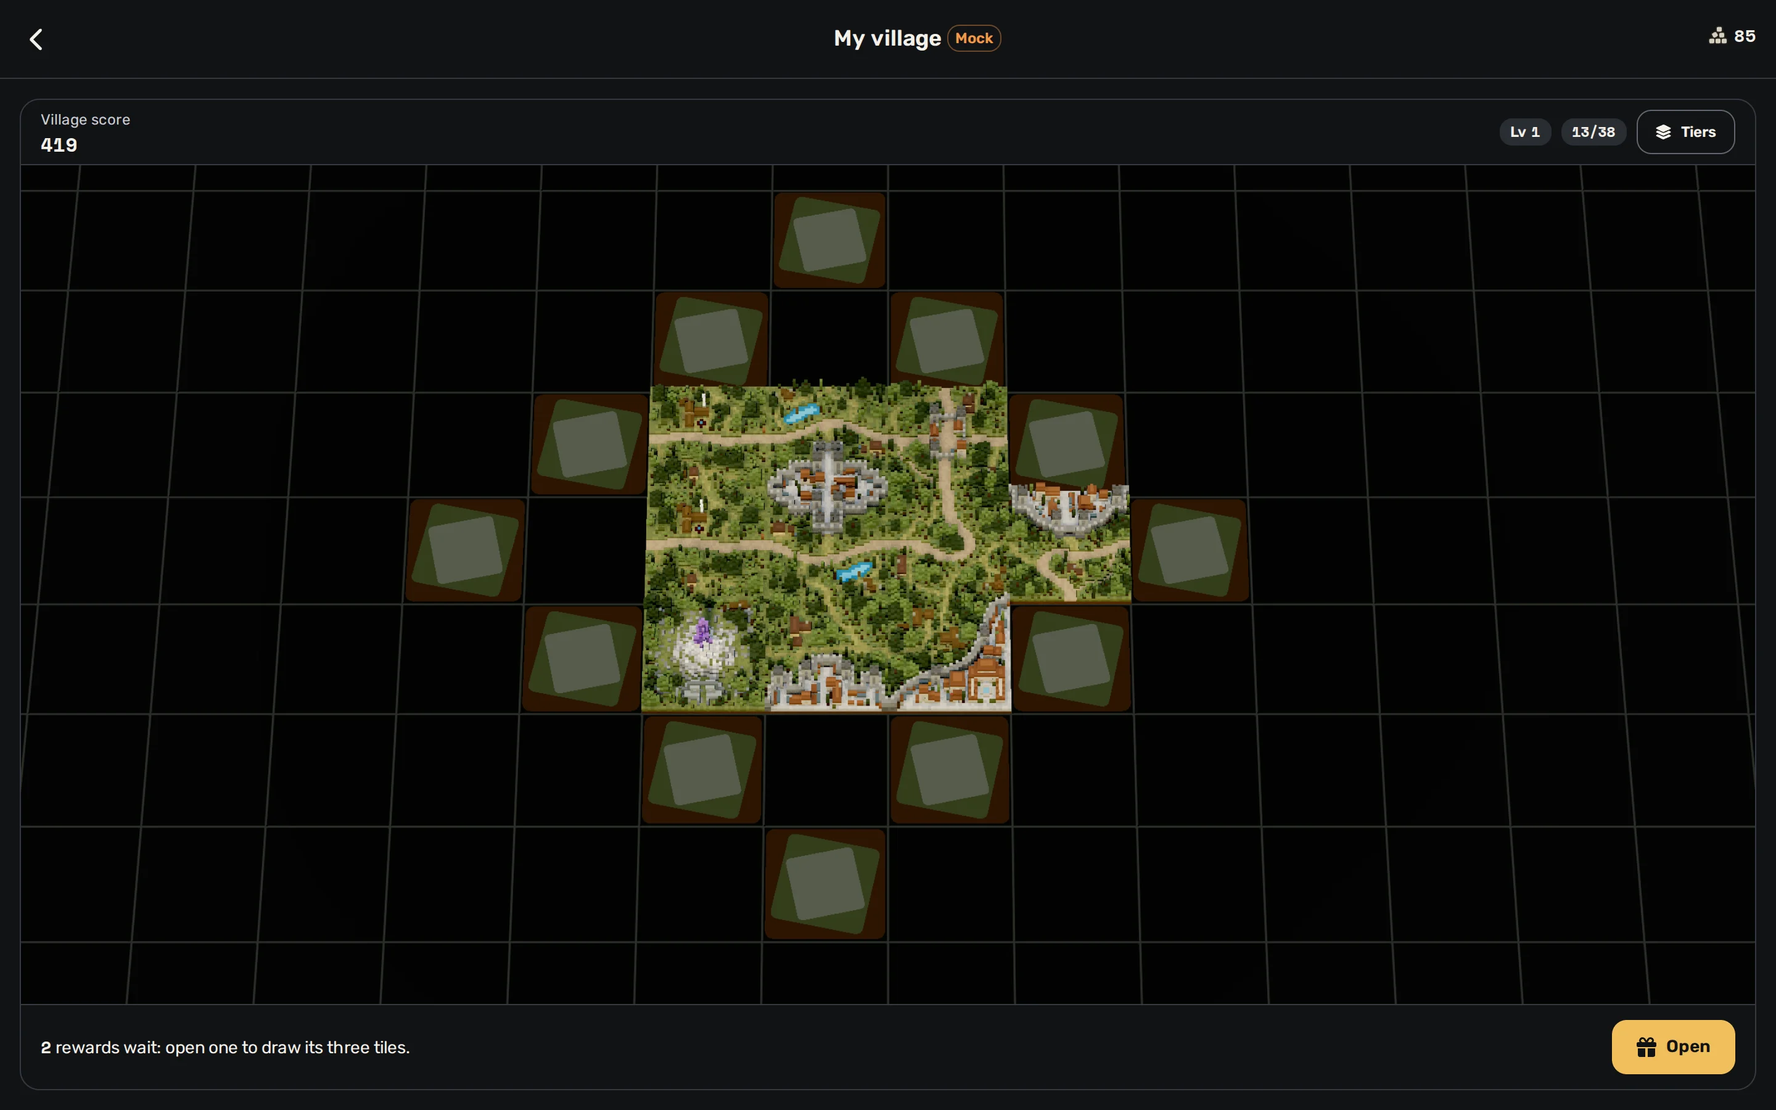
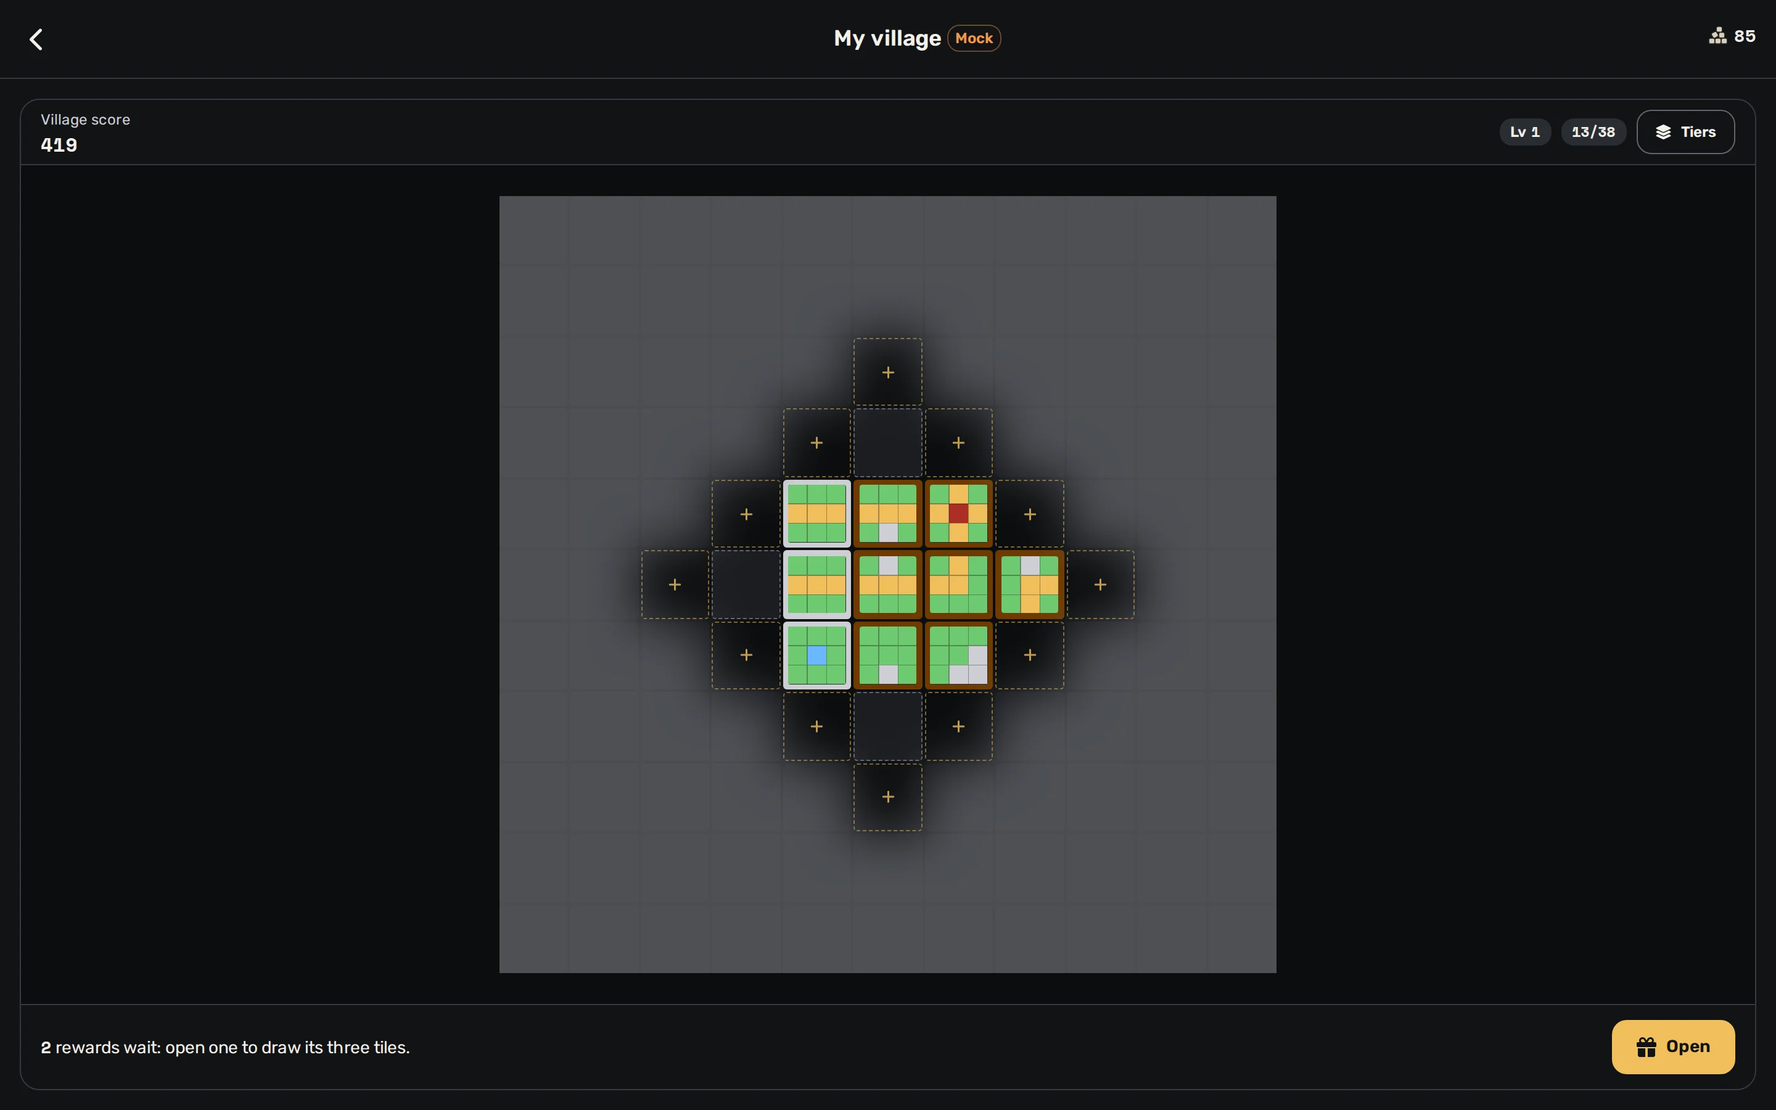
VILLAGE-SCREEN-2: tier bases on the board, reward and tier read failures (#646)
Review fixes:
- The page draws the plan board, each placed tile on its tier's base; the 3D
  village waits for the renderer to draw a tier's base (the stories keep it).
- A failed read of the reward shows its error and Retry in the reward's
  place, never as "no reward".
- The theme shop shows its skins once their tiers are read too: no Buy while
  the tiers are on their way or after their read failed; Retry reads them.
Captures of the board and the reward retaken on the plan.

diff --git a/packages/app/src/routes/pages/village.tsx b/packages/app/src/routes/pages/village.tsx
@@ -1,19 +1,12 @@
-import { useState } from "react";
 import { useParams, useSearchParams } from "react-router";
 import { useQueryClient } from "@tanstack/react-query";
 import { toast } from "sonner";
-import { provideManifest } from "@paved/renderer";
-import { hasWebGL } from "../../components/containers/tile-view";
-import { VillageViewport } from "../../components/containers/village-viewport";
-import type { VillageBoardProps } from "../../components/containers/village-board";
 import { shortAddress } from "../../components/elements/short-address";
 import { VillageScene, type VillageStatus } from "../../components/scenes/village-scene";
-import { useBoardSkins } from "../../data/board-skins";
 import { cobbleKeys, useCobbleAccount } from "../../data/cobbles";
 import { usePlayerStatus } from "../../data/indexer";
 import { addressKey } from "../../data/keys";
-import { RENDERER_ASSETS, manifestBody } from "../../data/renderer-manifest";
-import { useBoardSettings } from "../../data/settings";
+import { RENDERER_ASSETS } from "../../data/renderer-manifest";
 import { useDataSources } from "../../data/sources";
 import { useTileArt } from "../../data/tile-art";
 import { useVillage, useVillageReward, useVillageWrites, villageKeys } from "../../data/village";
@@ -21,9 +14,6 @@ import { useAccount } from "../../wallet/wallet";
 import { errorDetail } from "../error-detail";
 import { useAppNavigate, useBack } from "../ref";
 import NotFound from "./not-found";
-
-/** The renderer reads the manifest the route asked for with this code (`data/renderer-manifest.ts`), as the board does. */
-provideManifest(RENDERER_ASSETS, manifestBody(RENDERER_ASSETS));
 
 /** An address in a path: `0x` and 1 to 64 hex digits. */
 const ADDRESS = /^0x[0-9a-f]{1,64}$/i;
@@ -34,7 +24,8 @@ const ADDRESS = /^0x[0-9a-f]{1,64}$/i;
  * (`useVillage`), the reward from `Rewards` (`useVillageReward`), the Cobbles from the ledger. The own village writes through
  * the signer (`useVillageWrites`): Found, Buy a parcel at the price the sheet showed, Open a reward, then place one of its
  * tiles, add it as a copy, or take the Cobbles; each write shows its wait, its refusal and a toast on its receipt. The board is
- * the 3D village with the fog of war (`VillageViewport`), or the plan without WebGL.
+ * the plan (`VillageBoard`): each placed tile on its tier's base, the fog over the cells beyond the parcels. The 3D village
+ * (`VillageViewport`, #648) waits for the renderer to draw a tier's base under a tile.
  */
 export default function Page() {
   const { player } = useParams();
@@ -59,21 +50,18 @@ function Village({ player }: { player: string | null }) {
   const reward = useVillageReward(own ? playerId : null);
   const account = useCobbleAccount(own ? playerId : null);
   const writes = useVillageWrites(own ? playerId : null);
-  const skins = useBoardSkins(playerId);
-  const settings = useBoardSettings();
-  // The 3D village, unless this browser has no WebGL or the renderer cannot start: the plan, which does the same.
-  const [view, setView] = useState<"3d" | "plan">(() => (hasWebGL() ? "3d" : "plan"));
   const tileArt = useTileArt(RENDERER_ASSETS);
 
-  const error = read.error ?? reward.error ?? null;
   const status: VillageStatus | null =
     own && me === null
       ? { kind: "guest" }
       : read.data === undefined
-        ? error
-          ? { kind: "error", message: error.message, detail: errorDetail(error) }
+        ? read.error
+          ? { kind: "error", message: read.error.message, detail: errorDetail(read.error) }
           : { kind: "loading" }
         : null;
+  // The reward's own failed read: the village shows, the reward's place says what happened (Retry reads both again).
+  const rewardError = reward.error ? { message: reward.error.message, detail: errorDetail(reward.error) } : null;
   const data = read.data;
   const busy = writes.pending !== undefined;
 
@@ -87,9 +75,6 @@ function Village({ player }: { player: string | null }) {
     );
   };
 
-  const renderBoard =
-    view === "3d" ? (board: VillageBoardProps) => <VillageViewport {...board} settings={settings.renderer} basePath={RENDERER_ASSETS} skins={skins} onError={() => setView("plan")} /> : undefined;
-
   return (
     <VillageScene
       village={status ? undefined : (data?.village ?? null)}
@@ -102,10 +87,10 @@ function Village({ player }: { player: string | null }) {
       parcel={data?.parcel ?? null}
       cobbles={account.data?.cobbles ?? 0}
       busy={busy}
+      rewardError={rewardError}
       refusal={writes.error?.message ?? null}
       refusalDetail={writes.error ? errorDetail(writes.error) : undefined}
       tileArt={tileArt}
-      renderBoard={renderBoard}
       onBack={onBack}
       onConnect={() => void wallet.connect()}
       onRetry={() => {

diff --git a/packages/app/src/components/scenes/village-scene.tsx b/packages/app/src/components/scenes/village-scene.tsx
@@ -48,6 +48,8 @@ export interface VillageSceneProps {
   founded?: boolean;
   /** Rewards waiting to be opened (own village, no offer open): Open draws the next one's tiles. */
   pending?: number;
+  /** The reward's read failed (own village): what happened, and Retry, in place of the reward. */
+  rewardError?: { message: string; detail?: ErrorDetail } | null;
   /** The last write's refusal, until dismissed. */
   refusal?: string | null;
   refusalDetail?: ErrorDetail;
@@ -114,7 +116,7 @@ const DRAG_SLOP = 6;
  * `Village` and `Rewards`, #646 PR 2): a village not founded shows its start and Found; rewards waiting show Open.
  */
 export function VillageScene({ village, status, mode = "own", onBack, onConnect, onRetry, ...props }: VillageSceneProps) {
-  if (village) return <VillageView village={village} mode={mode} onBack={onBack} {...props} />;
+  if (village) return <VillageView village={village} mode={mode} onBack={onBack} onRetry={onRetry} {...props} />;
   const own = mode === "own";
   return (
     <div className="flex h-dvh flex-col overflow-hidden bg-background">
@@ -155,6 +157,7 @@ function VillageView({
   pending = 0,
   refusal = null,
   refusalDetail,
+  rewardError = null,
   cobbles = 0,
   reward = null,
   parcel = null,
@@ -169,13 +172,14 @@ function VillageView({
   onFound,
   onOpenReward,
   onDismissRefusal,
+  onRetry,
   onPlace,
   onAddCopy,
   onTakeCobbles,
   onBuyParcel,
   onGetCobbles,
   onOpenSkins,
-}: Omit<VillageSceneProps, "village" | "status" | "onConnect" | "onRetry"> & { village: Village }) {
+}: Omit<VillageSceneProps, "village" | "status" | "onConnect"> & { village: Village }) {
   const own = mode === "own";
   const [selected, setSelected] = useState<number | null>(initialSelected);
   const [orientation, setOrientation] = useState(1);
@@ -193,7 +197,8 @@ function VillageView({
     setOrientation(1);
   }, [reward, initialSelected]);
 
-  const offer = own && founded ? reward : null;
+  // A reward that could not be read is not offered: its error shows instead, with Retry.
+  const offer = own && founded && !rewardError ? reward : null;
   const cap = cellCap(village);
   // A parcel bought joins the village: its sheet closes.
   const openParcel = chosenParcel && !village.cells.some((c) => c.x === chosenParcel.x && c.y === chosenParcel.y) ? chosenParcel : null;
@@ -351,7 +356,23 @@ function VillageView({
               </Button>
             </div>
           )}
-          {own && founded && !offer && pending > 0 && (
+          {own && founded && rewardError && (
+            <div className="border-t border-border px-4 py-2">
+              <InlineError
+                title="Your rewards could not be read"
+                message={rewardError.message}
+                detail={rewardError.detail}
+                action={
+                  onRetry && (
+                    <Button size="sm" variant="outline" onClick={onRetry}>
+                      Retry
+                    </Button>
+                  )
+                }
+              />
+            </div>
+          )}
+          {own && founded && !rewardError && !offer && pending > 0 && (
             <div className="flex items-center justify-between gap-3 border-t border-border px-4 py-3">
               <p className="text-sm">
                 <span className="numeric font-semibold">{pending}</span> {pending === 1 ? "reward waits" : "rewards wait"}: open one to draw its three tiles.
@@ -361,7 +382,7 @@ function VillageView({
               </Button>
             </div>
           )}
-          {own && founded && !offer && pending === 0 && (
+          {own && founded && !rewardError && !offer && pending === 0 && (
             <p className="border-t border-border px-4 py-2 text-center text-xs text-muted-foreground">
               {parcel ? "Tap a plus to buy the parcel next to your village." : "Your village is full."}
             </p>

diff --git a/packages/app/scripts/village-captures.ts b/packages/app/scripts/village-captures.ts
@@ -4,9 +4,9 @@
  * request.
  *
  *   bun run storybook                 (in another shell, or pass --url to a Storybook already up)
- *   node scripts/village-captures.ts --out <folder> [--url http://localhost:6006] [--gpu]
+ *   node scripts/village-captures.ts --out <folder> [--url http://localhost:6006]
  *
- * Without `--gpu` it runs headless on SwiftShader (software WebGL). Each capture is written as WebP (the browser encodes it, at
+ * The page draws the plan (each tile on its tier's base), so no WebGL is needed. Each capture is written as WebP (the browser encodes it, at
  * 0.85), as `src/stories/captures/village/`'s are. Node 24 runs it as is (type stripping).
  */
 import { mkdirSync, writeFileSync } from "node:fs";
@@ -19,7 +19,6 @@ const arg = (name: string, fallback: string): string => {
 };
 const URL_BASE = arg("url", "http://localhost:6006");
 const OUT = arg("out", "");
-const GPU = process.argv.includes("--gpu");
 const ONLY = arg("only", "");
 if (!OUT) throw new Error("--out <folder> is required");
 
@@ -27,11 +26,10 @@ const SIZES = [
   { width: 375, height: 812 },
   { width: 1440, height: 900 },
 ];
-const CAPTURES: { name: string; story: string; webgl?: boolean }[] = [
+const CAPTURES = [
   { name: "page-board", story: "pages-village--board" },
   { name: "page-reward", story: "pages-village--reward" },
-  // The visit in the plan, the page's board without WebGL: the 3D one of 29 cells does not settle on SwiftShader under load.
-  { name: "page-visit", story: "pages-village--visit", webgl: false },
+  { name: "page-visit", story: "pages-village--visit" },
 ];
 
 /** A PNG encoded as WebP by the browser (a blank page's canvas). */
@@ -52,18 +50,16 @@ async function toWebp(png: Buffer): Promise<Buffer> {
 }
 
 mkdirSync(OUT, { recursive: true });
-const browser = await chromium.launch({ args: GPU ? ["--enable-gpu", "--use-angle=default", "--ignore-gpu-blocklist"] : ["--use-angle=swiftshader", "--enable-unsafe-swiftshader"] });
-/** A browser without WebGL, for the captures of the plan view. */
-const plain = await chromium.launch({ args: ["--disable-webgl", "--disable-3d-apis"] });
+const browser = await chromium.launch();
 try {
   for (const capture of CAPTURES.filter((c) => !ONLY || c.name.includes(ONLY))) {
     for (const size of SIZES) {
-      const page = await (capture.webgl === false ? plain : browser).newPage({ viewport: size, deviceScaleFactor: 2 });
+      const page = await browser.newPage({ viewport: size, deviceScaleFactor: 2 });
       await page.goto(`${URL_BASE}/iframe.html?id=${capture.story}&viewMode=story`, { waitUntil: "load" });
       // The page read the ledger (the first visit waits for Storybook's compile): its score is shown.
       await page.waitForSelector("#storybook-root :text('Village score')", { timeout: 90_000 });
-      // The 3D board loads its models and settles (its ambient effects keep the network busy: no idle to wait for).
-      await page.waitForTimeout(10_000);
+      // The tiles' art loads (Storybook's own socket keeps the network busy: no idle to wait for).
+      await page.waitForTimeout(4_000);
       const png = await page.screenshot({ fullPage: false, timeout: 180_000 });
       await page.close();
       const file = join(OUT, `${capture.name}-${size.width}.webp`);
@@ -73,5 +69,4 @@ try {
   }
 } finally {
   await browser.close();
-  await plain.close();
 }

diff --git a/packages/app/src/routes/pages/theme-shop.tsx b/packages/app/src/routes/pages/theme-shop.tsx
@@ -9,7 +9,7 @@ import { RENDERER_ASSETS } from "../../data/renderer-manifest";
 import { skinKeys, useSkinWrites, useThemeSkins } from "../../data/skins";
 import { useDataSources } from "../../data/sources";
 import { useThemeVariants, useTileRenders } from "../../data/tile-renders";
-import { useSkinTierGates } from "../../data/village";
+import { useSkinTierGates, villageKeys } from "../../data/village";
 import { useAccount } from "../../wallet/wallet";
 import { useAppNavigate, useBack, useTabNavigate } from "../ref";
 import NotFound from "./not-found";
@@ -40,6 +40,9 @@ function Shop({ theme, available }: { theme: SkinThemeId; available: boolean }) 
   const read = useThemeSkins(playerId, available ? code : null);
   // The skins reserved to a tier of their plan (#642): Buy waits for the tier. None on a network without Rewards.
   const gates = useSkinTierGates(playerId, available ? code : null);
+  // The skins shown once their tiers are read too: no Buy before the tiers say which skins wait for one, nor after their read failed.
+  const tiersIn = gates.data !== undefined && !gates.error;
+  const status = skinsStatus(playerId, { data: tiersIn ? read.data : undefined, error: read.error ?? gates.error });
   const writes = useSkinWrites(playerId);
   const client = useQueryClient();
   const renders = useTileRenders(RENDERER_ASSETS);
@@ -66,8 +69,8 @@ function Shop({ theme, available }: { theme: SkinThemeId; available: boolean }) 
       renders={renders}
       variants={variants}
       tierGates={gates.data ?? undefined}
-      skins={read.data}
-      skinsStatus={available ? skinsStatus(playerId, read) : null}
+      skins={tiersIn ? read.data : undefined}
+      skinsStatus={available ? status : null}
       buying={writes.buying}
       refusal={writes.error?.message ?? null}
       refusalDetail={writes.error ? errorDetail(writes.error) : undefined}
@@ -78,6 +81,7 @@ function Shop({ theme, available }: { theme: SkinThemeId; available: boolean }) 
       onConnect={() => go("/welcome")}
       onRetry={() => {
         void client.invalidateQueries({ queryKey: skinKeys.all });
+        void client.invalidateQueries({ queryKey: villageKeys.all });
         void client.invalidateQueries({ queryKey: cobbleKeys.all });
       }}
       onBack={onBack}

diff --git a/packages/app/__tests__/theme-route.test.tsx b/packages/app/__tests__/theme-route.test.tsx
@@ -137,6 +137,26 @@ describe("/settings/theme/forest: the shop", () => {
   const cell = (plan: number) => screen.findByRole("listitem", { name: `Tile ${plan}` }, { timeout: slow(5000) });
   const buyButton = async (plan: number) => within(await cell(plan)).getByRole("button", { name: `Buy Tile ${plan} for ${FOREST_PRICES[plan - 1]} Cobbles` });
 
+  it("a skin reserved to a tier waits for it; a failed read of the tiers shows no Buy until Retry reads them (#646)", async () => {
+    const s = setup();
+    s.views.skinTierTable.set(`${FOREST}:10`, 1);
+    s.views.skinTierTable.set(`${FOREST}:11`, 1);
+    s.views.villagePlayer(PLAYER_ID).copies[10] = 2;
+    const tiers = s.views.skinTiers.bind(s.views);
+    let fail = true;
+    s.views.skinTiers = (theme: number) => (fail ? Promise.reject(new Error("tiers down")) : tiers(theme));
+    open(s, "/settings/theme/forest");
+    expect(await screen.findByText("tiers down", {}, { timeout: slow(5000) })).toBeInTheDocument();
+    expect(screen.queryByRole("button", { name: /^Buy Tile/ })).toBeNull();
+    fail = false;
+    await userEvent.click(screen.getByRole("button", { name: "Retry" }));
+    // Plan 10 waits for Silver (no copy yet); plan 11 reached it (2 copies); plan 12 has no tier.
+    expect(await buyButton(10)).toBeDisabled();
+    expect(within(await cell(10)).getByLabelText("Reserved to Silver tier")).toBeInTheDocument();
+    expect(await buyButton(11)).toBeEnabled();
+    expect(await buyButton(12)).toBeEnabled();
+  });
+
   it("shows each tile's price, owned and active state", async () => {
     open(setup(), "/settings/theme/forest");
     expect(await screen.findByRole("heading", { level: 1, name: "Forest" }, { timeout: slow(5000) })).toBeInTheDocument();

diff --git a/packages/app/__tests__/village-route.test.tsx b/packages/app/__tests__/village-route.test.tsx
@@ -133,6 +133,32 @@ describe("/village: the own village", () => {
     await waitFor(() => expect(screen.queryByText(/Your level is too low/)).toBeNull());
   });
 
+  it("a failed read of the reward says so with Retry, never as no reward; Retry shows the rewards waiting", async () => {
+    const c = chain(50, 2);
+    await c.writer.foundVillage();
+    const grants = c.views.rewardGrants.bind(c.views);
+    let fail = true;
+    c.views.rewardGrants = (player: string) => (fail ? Promise.reject(new Error("rewards down")) : grants(player));
+    open(c, "/village");
+    expect(await screen.findByText("Your rewards could not be read", {}, { timeout: 5000 })).toBeInTheDocument();
+    expect(screen.getByText("rewards down")).toBeInTheDocument();
+    expect(screen.queryByText(/Tap a plus/)).toBeNull();
+    fail = false;
+    await userEvent.click(screen.getByRole("button", { name: "Retry" }));
+    expect(await screen.findByText(waiting(2), {}, { timeout: 5000 })).toBeInTheDocument();
+    expect(screen.queryByText("Your rewards could not be read")).toBeNull();
+  });
+
+  it("draws each placed tile on its tier's base", async () => {
+    const c = chain(50, 0);
+    await c.writer.foundVillage();
+    c.views.villagePlayer(PLAYER_ID).copies[8] = 4;
+    open(c, "/village");
+    // The starter is plan 9: 4 copies of it, Gold (tier 2), its base drawn under it on the board.
+    const board = await screen.findByLabelText(/^Village of 9 cells and 1 tiles$/, {}, { timeout: 5000 });
+    await waitFor(() => expect(board.querySelector('[data-tier="2"]')).not.toBeNull());
+  });
+
   it("a guest is asked to connect", async () => {
     const c = chain();
     open(c, "/village", { guest: true });

diff --git a/packages/app/__tests__/village.test.tsx b/packages/app/__tests__/village.test.tsx
@@ -206,6 +206,13 @@ describe("Scenes/Village", () => {
     await userEvent.click(screen.getByRole("button", { name: "Dismiss" }));
     expect(onDismissRefusal).toHaveBeenCalledTimes(1);
     unmount();
+    const onRetry = vi.fn();
+    const { unmount: failed } = render(wrap(<VillageScene {...VILLAGE.rewardFailed} onRetry={onRetry} />));
+    expect(screen.getByText("Your rewards could not be read")).toBeInTheDocument();
+    expect(screen.queryByRole("button", { name: /Open/ })).toBeNull();
+    await userEvent.click(screen.getByRole("button", { name: "Retry" }));
+    expect(onRetry).toHaveBeenCalledTimes(1);
+    failed();
     const { unmount: guest } = render(wrap(<VillageScene {...VILLAGE.guest} />));
     expect(screen.getByText("Connect to build your village")).toBeInTheDocument();
     guest();

diff --git a/packages/app/src/mocks/village.ts b/packages/app/src/mocks/village.ts
@@ -161,6 +161,7 @@ export const VILLAGE = {
   unfounded: { village: VILLAGE_UNFOUNDED, founded: false },
   waiting: { village: VILLAGE_START, cobbles: 120, parcel: parcelFor(9), pending: 3 },
   refused: { village: VILLAGE_START, cobbles: 5, parcel: parcelFor(9), refusal: "Your level is too low for this parcel: play games to level up. No Cobbles were spent." },
+  rewardFailed: { village: VILLAGE_START, cobbles: 120, parcel: parcelFor(9), pending: 2, rewardError: { message: "Rewards: the node did not answer" } },
   loading: { status: { kind: "loading" } },
   guest: { status: { kind: "guest" } },
   unavailable: { village: null },

diff --git a/packages/app/src/routes/page-loaders.ts b/packages/app/src/routes/page-loaders.ts
@@ -28,7 +28,7 @@ export const PAGE_LOADERS: Record<string, PageLoader> = {
   cobbles: () => import("./pages/cobbles"),
   // The avatar creator (#626 PR 2), its own chunk; its 3D preview and stills are the renderer's avatar chunk, loaded by the page.
   avatar: () => import("./pages/avatar"),
-  // The village (#646 PR 2), its own chunk, the own and a visit; its 3D board asks for the renderer's manifest as the board does.
+  // The village (#646 PR 2), its own chunk, the own and a visit; its tile art reads the renderer's manifest, asked for with the code.
   village: village,
   "village/:player": village,
   "game/:gameId": board,

diff --git a/packages/app/src/components/scenes/village-scene.stories.tsx b/packages/app/src/components/scenes/village-scene.stories.tsx
@@ -67,6 +67,8 @@ export const Unfounded: Story = { args: VILLAGE.unfounded };
 export const Waiting: Story = { args: VILLAGE.waiting };
 /** The chain refused a write: what happened, until dismissed. */
 export const Refused: Story = { args: VILLAGE.refused };
+/** The reward's read failed: what happened and Retry, never "no reward". */
+export const RewardFailed: Story = { args: VILLAGE.rewardFailed };
 /** The village on its way from the chain. */
 export const Loading: Story = { args: VILLAGE.loading };
 /** A guest: Connect to build a village. */
